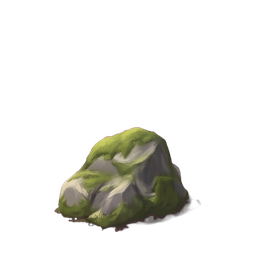
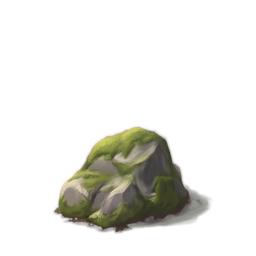
Obstacles keep their painted shadows; no lone pines on plains
Recovers each obstacle's painted shadow from the magenta as a soft dark
shadow instead of drawing a separate ellipse under it, and swaps plains'
pine for a thicket.

Claude-Session: https://claude.ai/code/session_01A4Rh9F23zG9pkHXjQmoY1X

diff --git a/src/scenes/GridScene.ts b/src/scenes/GridScene.ts
@@ -265,7 +265,7 @@ import {
   playStoneThrow,
 } from './effects.ts';
 import { CRIT_SHAKE, getLungeDistance, getStrikeJuice, type Shake } from './hitJuice.ts';
-import { addObstacleShadow, addTreeShadow, addUnitShadow } from './unitShadow.ts';
+import { addTreeShadow, addUnitShadow } from './unitShadow.ts';
 import { addUnitOutline } from './unitOutline.ts';
 import { addUnitRig, faceRigToward, playRigAction, setRigMotion } from './unitRig.ts';
 import { addRankBadge } from './rankBadge.ts';
@@ -682,10 +682,6 @@ export class GridScene extends Phaser.Scene {
     if (level.battlefield) cameraFX?.addVignette(0.5, 0.5, VIGNETTE.radius, VIGNETTE.strength);
     if (level.battlefield) {
       this.renderBattlefield(level.battlefield, getBackdropSeed(this.grid));
-      for (const { x, y } of level.obstacles ?? []) {
-        const pos = getStandingPosition(x, y);
-        addObstacleShadow(this, pos.x, pos.y);
-      }
     } else {
       this.renderBackdrop(getBackdropStyle(level.biome), getBackdropSeed(this.grid));
       this.renderTerrain(this.grid, { wall: getWallAutotile(palette) });

diff --git a/src/scenes/unitShadow.ts b/src/scenes/unitShadow.ts
@@ -1,6 +1,6 @@
 import Phaser from 'phaser';
 import { getEllipseSpans } from '../game/pixelShapes.ts';
-import { OBSTACLE_SHADOW, TILE_SIZE, TREE_SHADOW, UNIT_SHADOW, type Shadow } from '../game/tileset.ts';
+import { TILE_SIZE, TREE_SHADOW, UNIT_SHADOW, type Shadow } from '../game/tileset.ts';
 
 const SOFT_SHADOW_KEY = 'shadow-soft';
 const SOFT_SHADOW_SIZE = 128; // the soft shadow texture's side, stretched to each shadow's ellipse
@@ -110,11 +110,4 @@ export function addSoftShadow(
 // top-left corner is (x, y). Trees never move, so it stays put.
 export function addTreeShadow(scene: Phaser.Scene, x: number, y: number): Phaser.GameObjects.Image {
   return addShadow(scene, x, y, TREE_SHADOW, TREE_SHADOW_DEPTH);
-}
-
-// Draws a soft shadow (OBSTACLE_SHADOW) at the foot of a battlefield's
-// obstacle in the tile whose top-left corner is (x, y), under the floor's
-// units like a tree's.
-export function addObstacleShadow(scene: Phaser.Scene, x: number, y: number): Phaser.GameObjects.Image {
-  return addSoftShadow(scene, x, y, OBSTACLE_SHADOW, TREE_SHADOW_DEPTH);
 }

diff --git a/src/game/tileset.ts b/src/game/tileset.ts
@@ -144,7 +144,8 @@ export const OBSTACLE_ART: Readonly<Record<ObstacleKind, { sheet: typeof TERRAIN
 
 // The painted art each battlefield obstacle stands as, in place of
 // OBSTACLE_ART on a battlefield: texture keys of SPRITES, each one image
-// the size of a tile with the obstacle's base where a unit's feet go. A
+// the size of a tile with the obstacle's base where a unit's feet go and
+// its own painted shadow falling to the lower right. A
 // kind with several picks one per cell (getPaintedObstacles in mapArt.ts).
 export const PAINTED_OBSTACLES: Readonly<Record<ObstacleKind, readonly string[]>> = Object.freeze({
   rock: ['Obstacle_rock_1', 'Obstacle_rock_2'],
@@ -424,13 +425,6 @@ export const SOFT_UNIT_SHADOW: Shadow = {
   centerX: 16 / 32,
   centerY: 29 / 32,
   alpha: 0.55,
-};
-export const OBSTACLE_SHADOW: Shadow = {
-  width: 34 / 32,
-  height: 12 / 32,
-  centerX: 16 / 32,
-  centerY: 29 / 32,
-  alpha: 0.5,
 };
 
 // The outline drawn around every unit on the map in its team's color, so

diff --git a/src/game/battlefields.ts b/src/game/battlefields.ts
@@ -36,7 +36,7 @@ export const OBSTACLE_TERRAIN: Readonly<Record<ObstacleKind, 'mountain' | 'fores
 // The obstacles each battlefield scatters, picked evenly (list one twice
 // to make it twice as common).
 export const BATTLEFIELD_OBSTACLES: Readonly<Record<BattlefieldKind, readonly ObstacleKind[]>> = Object.freeze({
-  plains: ['rock', 'boulder', 'bush', 'bush', 'pine'],
+  plains: ['rock', 'boulder', 'bush', 'bush', 'thicket'],
   forest: ['pine', 'pine', 'thicket', 'bush', 'rock'],
   desert: ['rock', 'boulder', 'crag', 'cactus', 'cactus'],
 });

diff --git a/ARCHITECTURES.md b/ARCHITECTURES.md
@@ -367,7 +367,7 @@ Pure layout for the side view (the Iron Oath-style battlefield, plan in the proj
 
 ### `src/game/battlefields.ts`
 
-The side view's maps, after Heroes of Might and Magic III's battles: one open field per `BattlefieldKind` (`plains`, `forest`, `desert`) with a handful of obstacles scattered over it each battle. `generateBattlefield({ width, height, battlefield, obstacles }, rng)` takes the arena's plan (`planArena`: deploy down the west edge, enemies in the east half, a road and second route kept clear but not drawn), then puts `obstacles` ([min, max]) of the field's kinds (`BATTLEFIELD_OBSTACLES`) on random cells: never on or next to the deployment zone, on the seize tile, or touching another obstacle, and never one that blocks on the road or route. Each obstacle sets its cell's terrain (`OBSTACLE_TERRAIN`: rocks, boulders, crags and cacti are `mountain`, impassable; bushes, pines and thickets `forest`, slow), so every rule keeps reading terrain. A region picks it with `terrain.generator: 'battlefield'`, `battlefield` and `obstacles` (`generateMap` dispatches to it first); every built-in region does, on `BATTLEFIELD_SIZE` (14x10, the open ground the paintings leave clear). `createStageLevel` puts the field's `battlefield` and `obstacles` on the level, and `GridScene` then draws the field's look instead of the terrain (`renderBattlefield`): its kit from `src/assets/battlefieldKits.ts` (`BATTLEFIELD_KITS`, laid out by `layOutKit` in `src/game/battlefieldKit.ts` and drawn by `renderKit`; plains has one), else its painting from `src/assets/battlefieldArt.ts` (`BATTLEFIELD_PAINTINGS`: each names its `field`, the rectangle of open ground the floor is laid over by `getPaintingPlacement`, and `fitCamera` frames the camera on the whole painting with `getPaintingCamera`: zoomed to cover the canvas, never past the floor's fit) or, without one, the code-drawn `BATTLEFIELD_LOOKS` (a flecked floor, `getFloorFlecks`, under a backdrop), with each obstacle standing as its painted `PAINTED_OBSTACLES` image (one of its kind's variants, picked and mirrored by cell by `getPaintedObstacles` in `mapArt.ts`, drawn by `renderPaintedObstacles`) on a soft `OBSTACLE_SHADOW`; the old `OBSTACLE_ART` pixel sprites remain only for the framing clumps. So the field reads as one scene rather than a board on a page, a code-drawn look is drawn a floor's width past either side, `renderFloorGrid` outlines the cells faintly, units stand on a soft `SOFT_UNIT_SHADOW` (`addSoftShadow` in `src/scenes/unitShadow.ts`), the camera gets a vignette (WebGL `postFX`), and on a code-drawn look out-of-focus clumps of the field's plants and rocks frame the bottom corners (`src/game/battlefieldFraming.ts`, placed by `GridScene.frameBattlefield` in the view from `getCameraView`); a painting has its own foreground painted in. Tested in `src/game/battlefields.test.ts`.
+The side view's maps, after Heroes of Might and Magic III's battles: one open field per `BattlefieldKind` (`plains`, `forest`, `desert`) with a handful of obstacles scattered over it each battle. `generateBattlefield({ width, height, battlefield, obstacles }, rng)` takes the arena's plan (`planArena`: deploy down the west edge, enemies in the east half, a road and second route kept clear but not drawn), then puts `obstacles` ([min, max]) of the field's kinds (`BATTLEFIELD_OBSTACLES`) on random cells: never on or next to the deployment zone, on the seize tile, or touching another obstacle, and never one that blocks on the road or route. Each obstacle sets its cell's terrain (`OBSTACLE_TERRAIN`: rocks, boulders, crags and cacti are `mountain`, impassable; bushes, pines and thickets `forest`, slow), so every rule keeps reading terrain. A region picks it with `terrain.generator: 'battlefield'`, `battlefield` and `obstacles` (`generateMap` dispatches to it first); every built-in region does, on `BATTLEFIELD_SIZE` (14x10, the open ground the paintings leave clear). `createStageLevel` puts the field's `battlefield` and `obstacles` on the level, and `GridScene` then draws the field's look instead of the terrain (`renderBattlefield`): its kit from `src/assets/battlefieldKits.ts` (`BATTLEFIELD_KITS`, laid out by `layOutKit` in `src/game/battlefieldKit.ts` and drawn by `renderKit`; plains has one), else its painting from `src/assets/battlefieldArt.ts` (`BATTLEFIELD_PAINTINGS`: each names its `field`, the rectangle of open ground the floor is laid over by `getPaintingPlacement`, and `fitCamera` frames the camera on the whole painting with `getPaintingCamera`: zoomed to cover the canvas, never past the floor's fit) or, without one, the code-drawn `BATTLEFIELD_LOOKS` (a flecked floor, `getFloorFlecks`, under a backdrop), with each obstacle standing as its painted `PAINTED_OBSTACLES` image (one of its kind's variants, picked and mirrored by cell by `getPaintedObstacles` in `mapArt.ts`, drawn by `renderPaintedObstacles`) with its own painted shadow; the old `OBSTACLE_ART` pixel sprites remain only for the framing clumps. So the field reads as one scene rather than a board on a page, a code-drawn look is drawn a floor's width past either side, `renderFloorGrid` outlines the cells faintly, units stand on a soft `SOFT_UNIT_SHADOW` (`addSoftShadow` in `src/scenes/unitShadow.ts`), the camera gets a vignette (WebGL `postFX`), and on a code-drawn look out-of-focus clumps of the field's plants and rocks frame the bottom corners (`src/game/battlefieldFraming.ts`, placed by `GridScene.frameBattlefield` in the view from `getCameraView`); a painting has its own foreground painted in. Tested in `src/game/battlefields.test.ts`.
 
 ### `src/game/battlefieldKit.ts`
 
